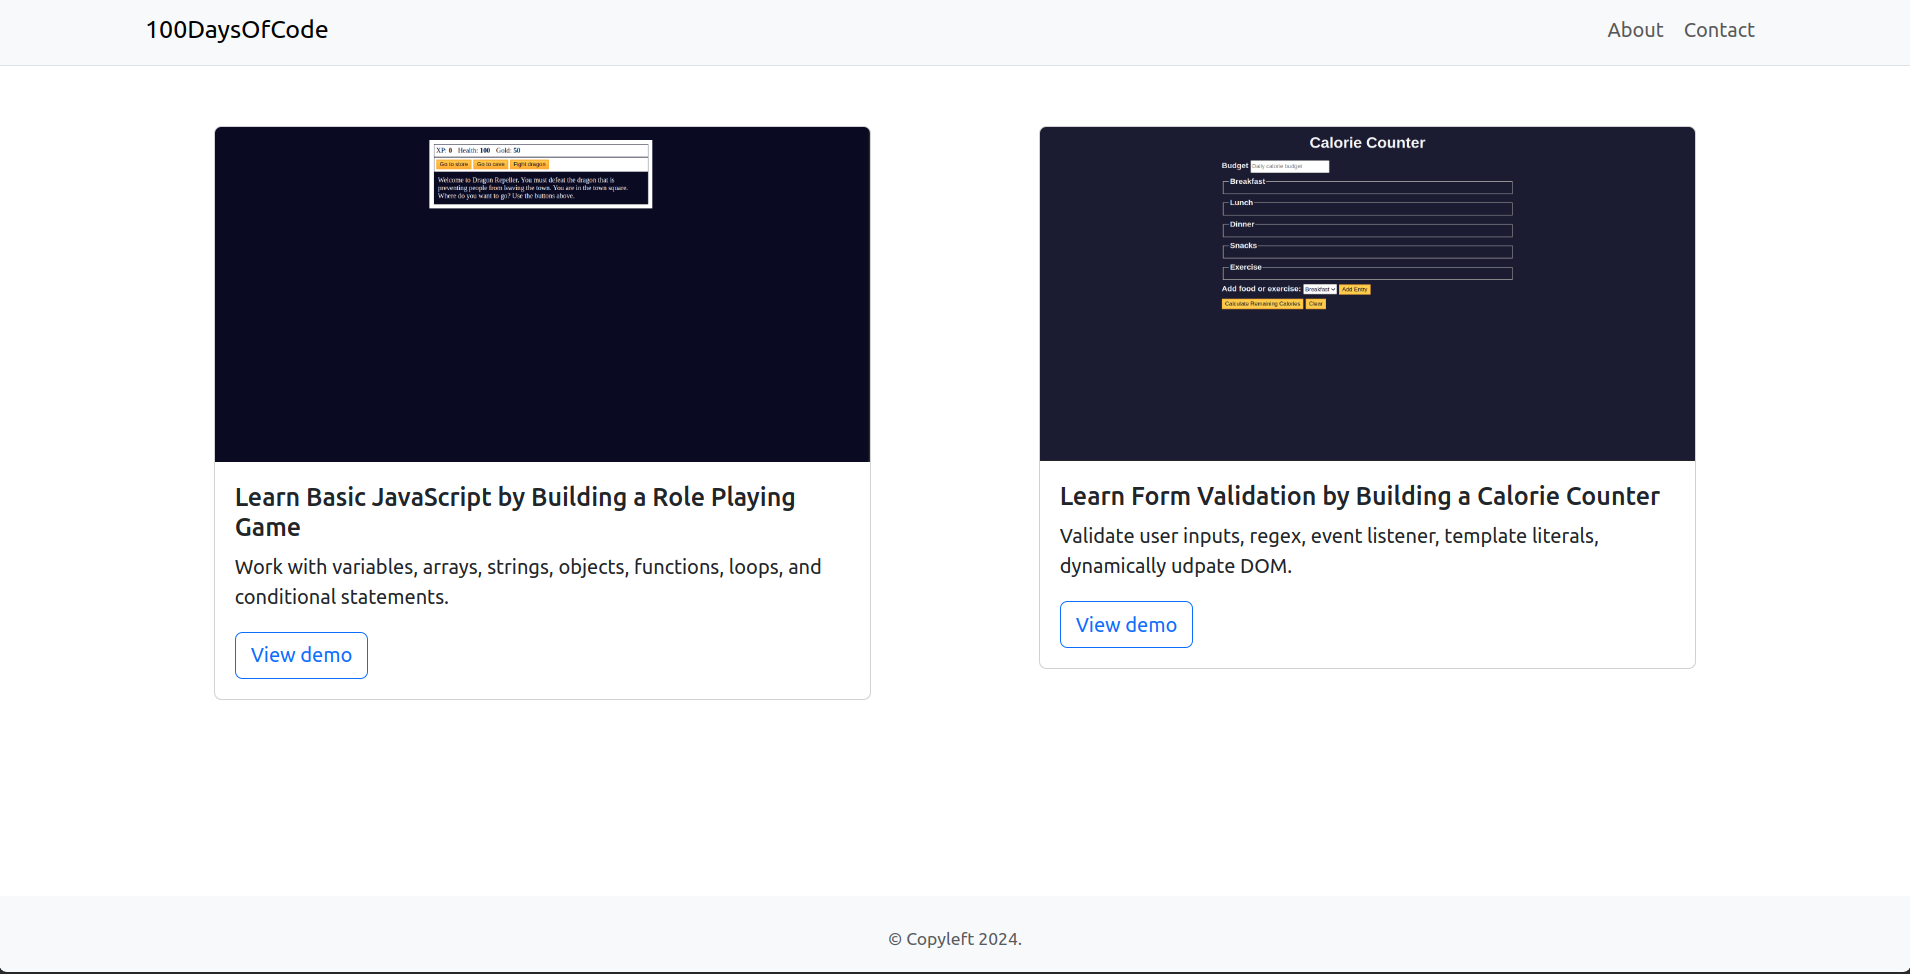
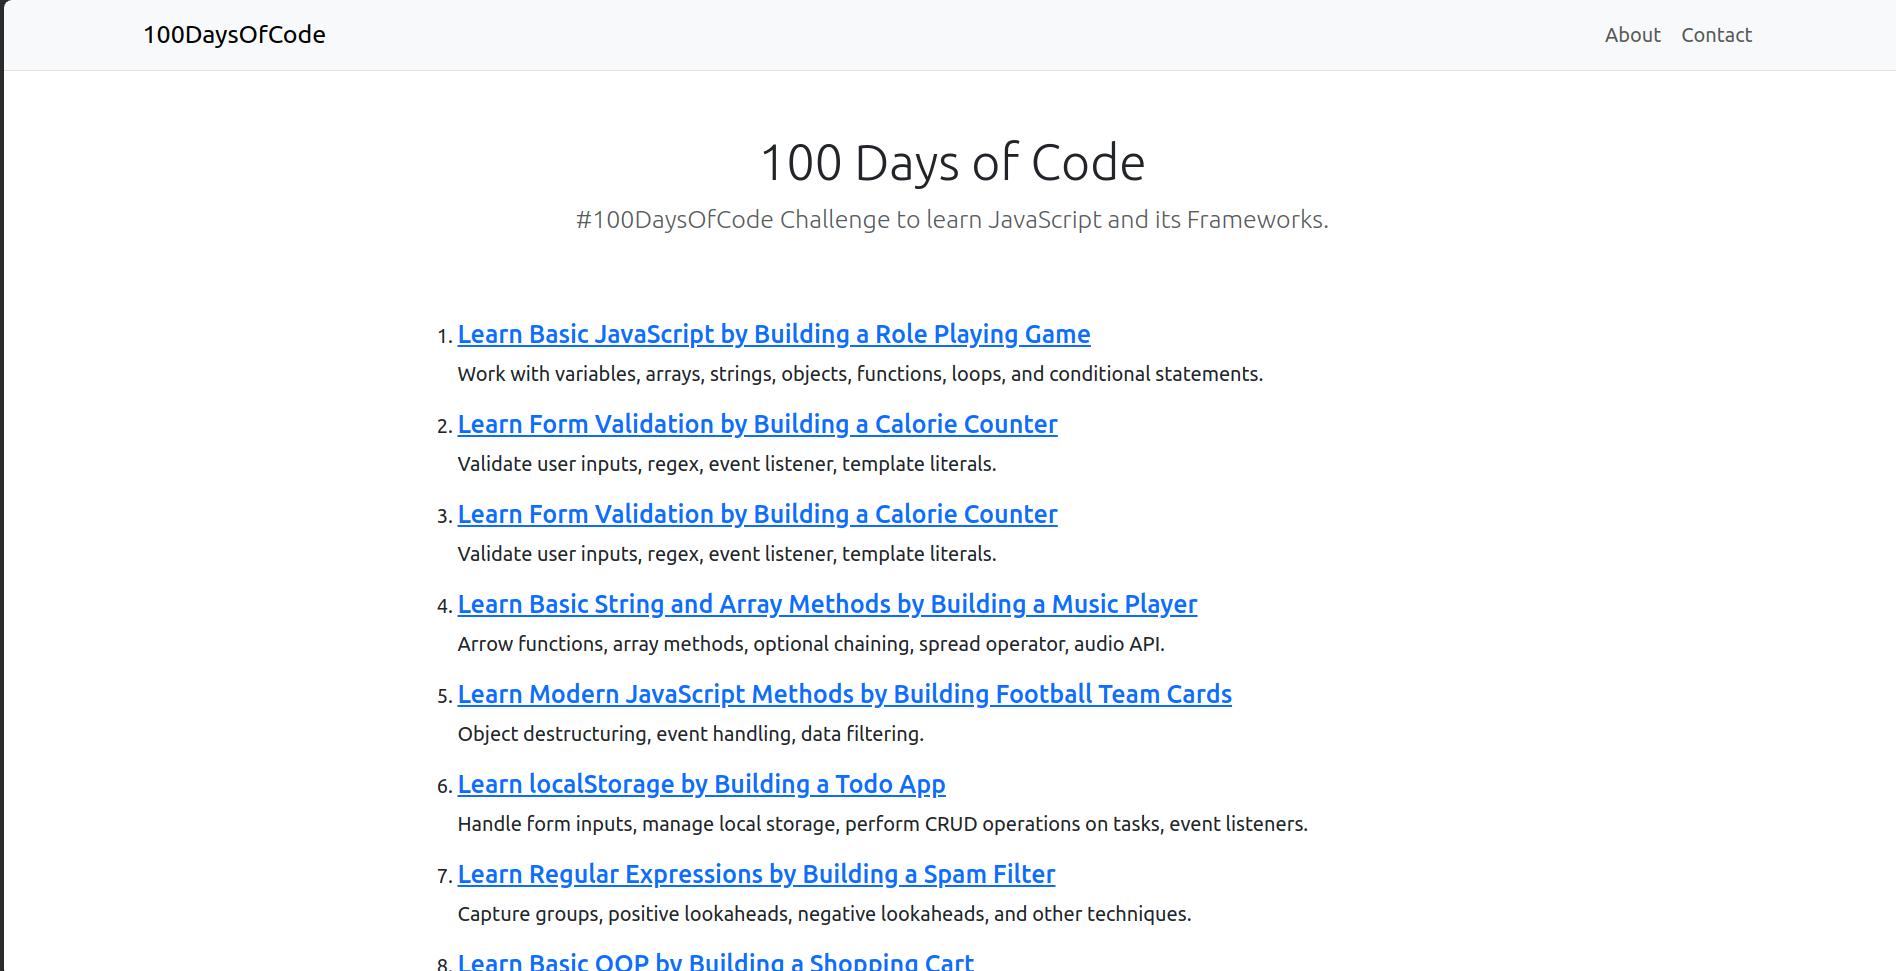
Update README.md

diff --git a/README.md b/README.md
@@ -14,9 +14,9 @@
 <!-- Use relative path to reference images you want to use in the README -->
 [![Screenshot](images/home-page.png?raw=true "100DaysOfCode")](https://balewgize.github.io/100DaysOfCode/)
 
-For software developers, showcasing a portfolio is essential to stand out. Regardless of its size, I advocate for its publication, allowing others to witness and learn from your accomplishments and creations.
 
-The purpose of this repository is to document my learnig journey throughout the challenge, potentially offering insights that may benefit others embarking on a similar quest to master JavaScript.
+The purpose of this repository is to document my learnig journey throughout the challenge.
+
 
 #### 1. Learn Basic JavaScript by Building a Role Playing Game
 
@@ -34,6 +34,27 @@ Arrow functions, array methods, optional chaining, spread operator, audio API.
 
 Object destructuring, event handling, data filtering.
 
-Link: <a href="https://www.freecodecamp.org/learn/javascript-algorithms-and-data-structures-v8/#learn-basic-javascript-by-building-a-role-playing-game">click here</a>
+#### 5. Learn localStorage by Building a Todo App
+
+Handle form inputs, manage local storage, perform CRUD operations on tasks, event listeners.
+
+#### 6. Learn Regular Expressions by Building a Spam Filter
+
+Capture groups, positive lookaheads, negative lookaheads, and other techniques.
+
+#### 7. Learn Basic OOP by Building a Shopping Cart
+
+Define classes, create class instances, adding methods for data maipulation, `this` keyword.
+
+#### 8. Learn Fetch and Promises by Building an fCC Authors Page
+
+`fetch` method to get data from external API, display fetched data, pagination.
+
+#### 9. Learn Asynchronous Programming by Building an fCC Forum Leaderboard
+
+Asynchronous concepts: Fetch API, promises, `async/await`, and `try..catch` statement.
+
+
+Go to the: <a href="https://www.freecodecamp.org/learn/javascript-algorithms-and-data-structures-v8/">Course</a>
 
 <p align="right">(<a href="#readme-top">back to top</a>)</p>
